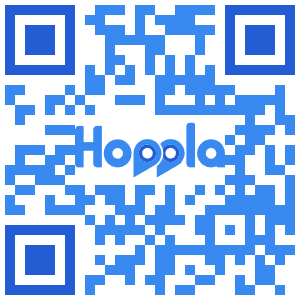
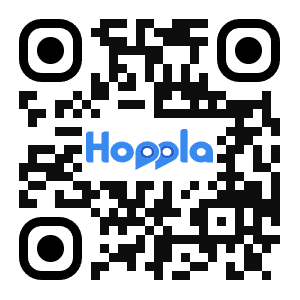
Update primary and primary-hover colors in globals.css, replace hoppla-qr1.png with hoppla-qr.png in MobileAppBlock.tsx

diff --git a/src/components/partials/MobileAppBlock.tsx b/src/components/partials/MobileAppBlock.tsx
@@ -1,7 +1,7 @@
 "use client";
 import React from 'react';
 import Image, { StaticImageData } from "next/image";
-import qrImage from "@/assets/images/banners/hoppla-qr1.png";
+import qrImage from "@/assets/images/banners/hoppla-qr.png";
 import appleLogo from '@/assets/images/icons/apple-logo.svg'
 import androidLogo from '@/assets/images/icons/android-logo.svg'
 import {motion} from "framer-motion";

diff --git a/src/app/[locale]/globals.css b/src/app/[locale]/globals.css
@@ -15,8 +15,8 @@
 
         --primary: 213, 86%, 58%;
         --primary-foreground: 0, 0%, 100%;
-        --primary-hover: 7, 77%, 47%;
-        --primary-dark: 9, 69%, 44%;
+        --primary-hover: 217, 78%, 53%;
+        --primary-dark: 220, 72%, 48%;
 
         --secondary: 0, 7%, 14%;
         --secondary-foreground: 0, 0%, 100%;
